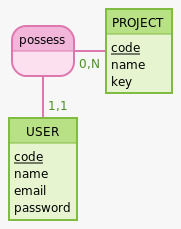
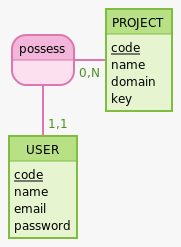
docs: Update database documents

Changed region(s): [[0.0276, 0.4279, 0.442, 0.9782], [0.5801, 0.0306, 0.9669, 0.4585], [0.0552, 0.0917, 0.5801, 0.3668]]

diff --git a/documents/database/dataDictionary.md b/documents/database/dataDictionary.md
@@ -13,10 +13,11 @@
 
 ## Project
 
-| Field      | Type        | Specifications                                  | Comment            |
-| ---------- | ----------- | ----------------------------------------------- | ------------------ |
-| id         | INT         | PRIMARY KEY, NOT NULL, UNSIGNED, AUTO_INCREMENT | project identifier |
-| name       | VARCHAR(64) | NOT NULL                                        | proejct name       |
-| key        | VARCHAR(64) | NOT NULL                                        | project key        |
-| created_at | DATETIME    | NOT NULL, DEFAULT CURRENT_TIMESTAMP             | project created    |
-| updated_at | DATETIME    | NULL                                            | project updated    |
+| Field      | Type         | Specifications                                  | Comment            |
+| ---------- | ------------ | ----------------------------------------------- | ------------------ |
+| id         | INT          | PRIMARY KEY, NOT NULL, UNSIGNED, AUTO_INCREMENT | project identifier |
+| name       | VARCHAR(64)  | NOT NULL                                        | project name       |
+| domain     | VARCHAR(128) | NOT NULL                                        | project domain     |
+| key        | VARCHAR(64)  | NOT NULL                                        | project key        |
+| created_at | DATETIME     | NOT NULL, DEFAULT CURRENT_TIMESTAMP             | project created    |
+| updated_at | DATETIME     | NULL                                            | project updated    |

diff --git a/documents/database/dataCollection.md b/documents/database/dataCollection.md
@@ -1,9 +1,10 @@
 # Data Collection
 
-| NAME     | DESCRIPTION   | TYPE | COMMENT | ENTYTE  |
-| -------- | ------------- | ---- | ------- | ------- |
-| Name     | User name     | Text | -       | User    |
-| Email    | User email    | Text | -       | User    |
-| Password | User password | Text | -       | User    |
-| Name     | Project name  | Text | -       | Project |
-| Key      | Project key   | Text | -       | Project |
+| NAME     | DESCRIPTION    | TYPE | COMMENT | ENTYTE  |
+| -------- | -------------- | ---- | ------- | ------- |
+| Name     | User name      | Text | -       | User    |
+| Email    | User email     | Text | -       | User    |
+| Password | User password  | Text | -       | User    |
+| Name     | Project name   | Text | -       | Project |
+| Domain   | Project domain | Text | -       | Project |
+| Key      | Project key    | Text | -       | Project |
